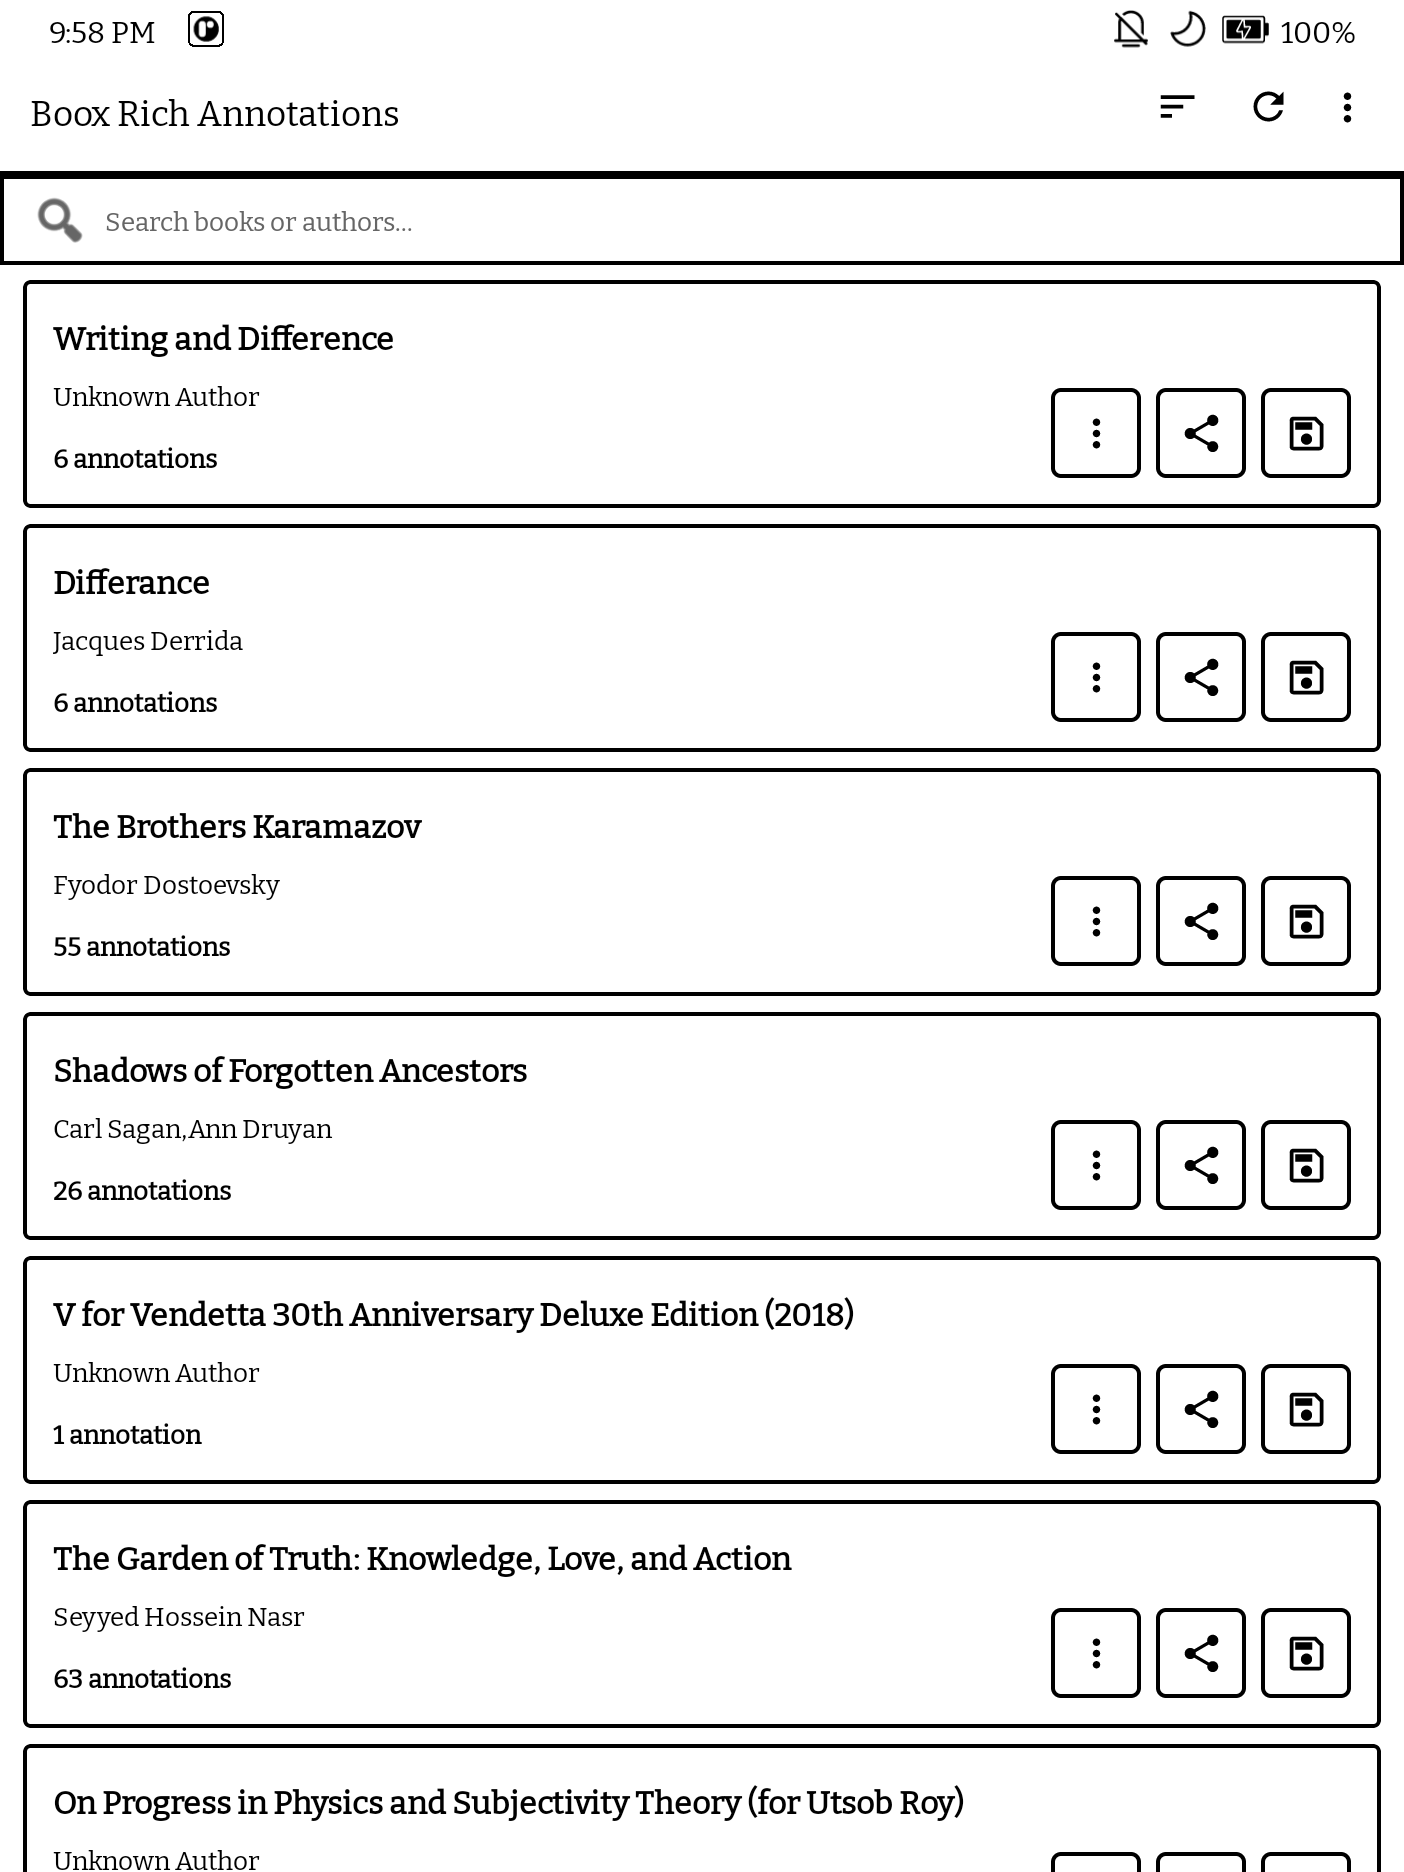
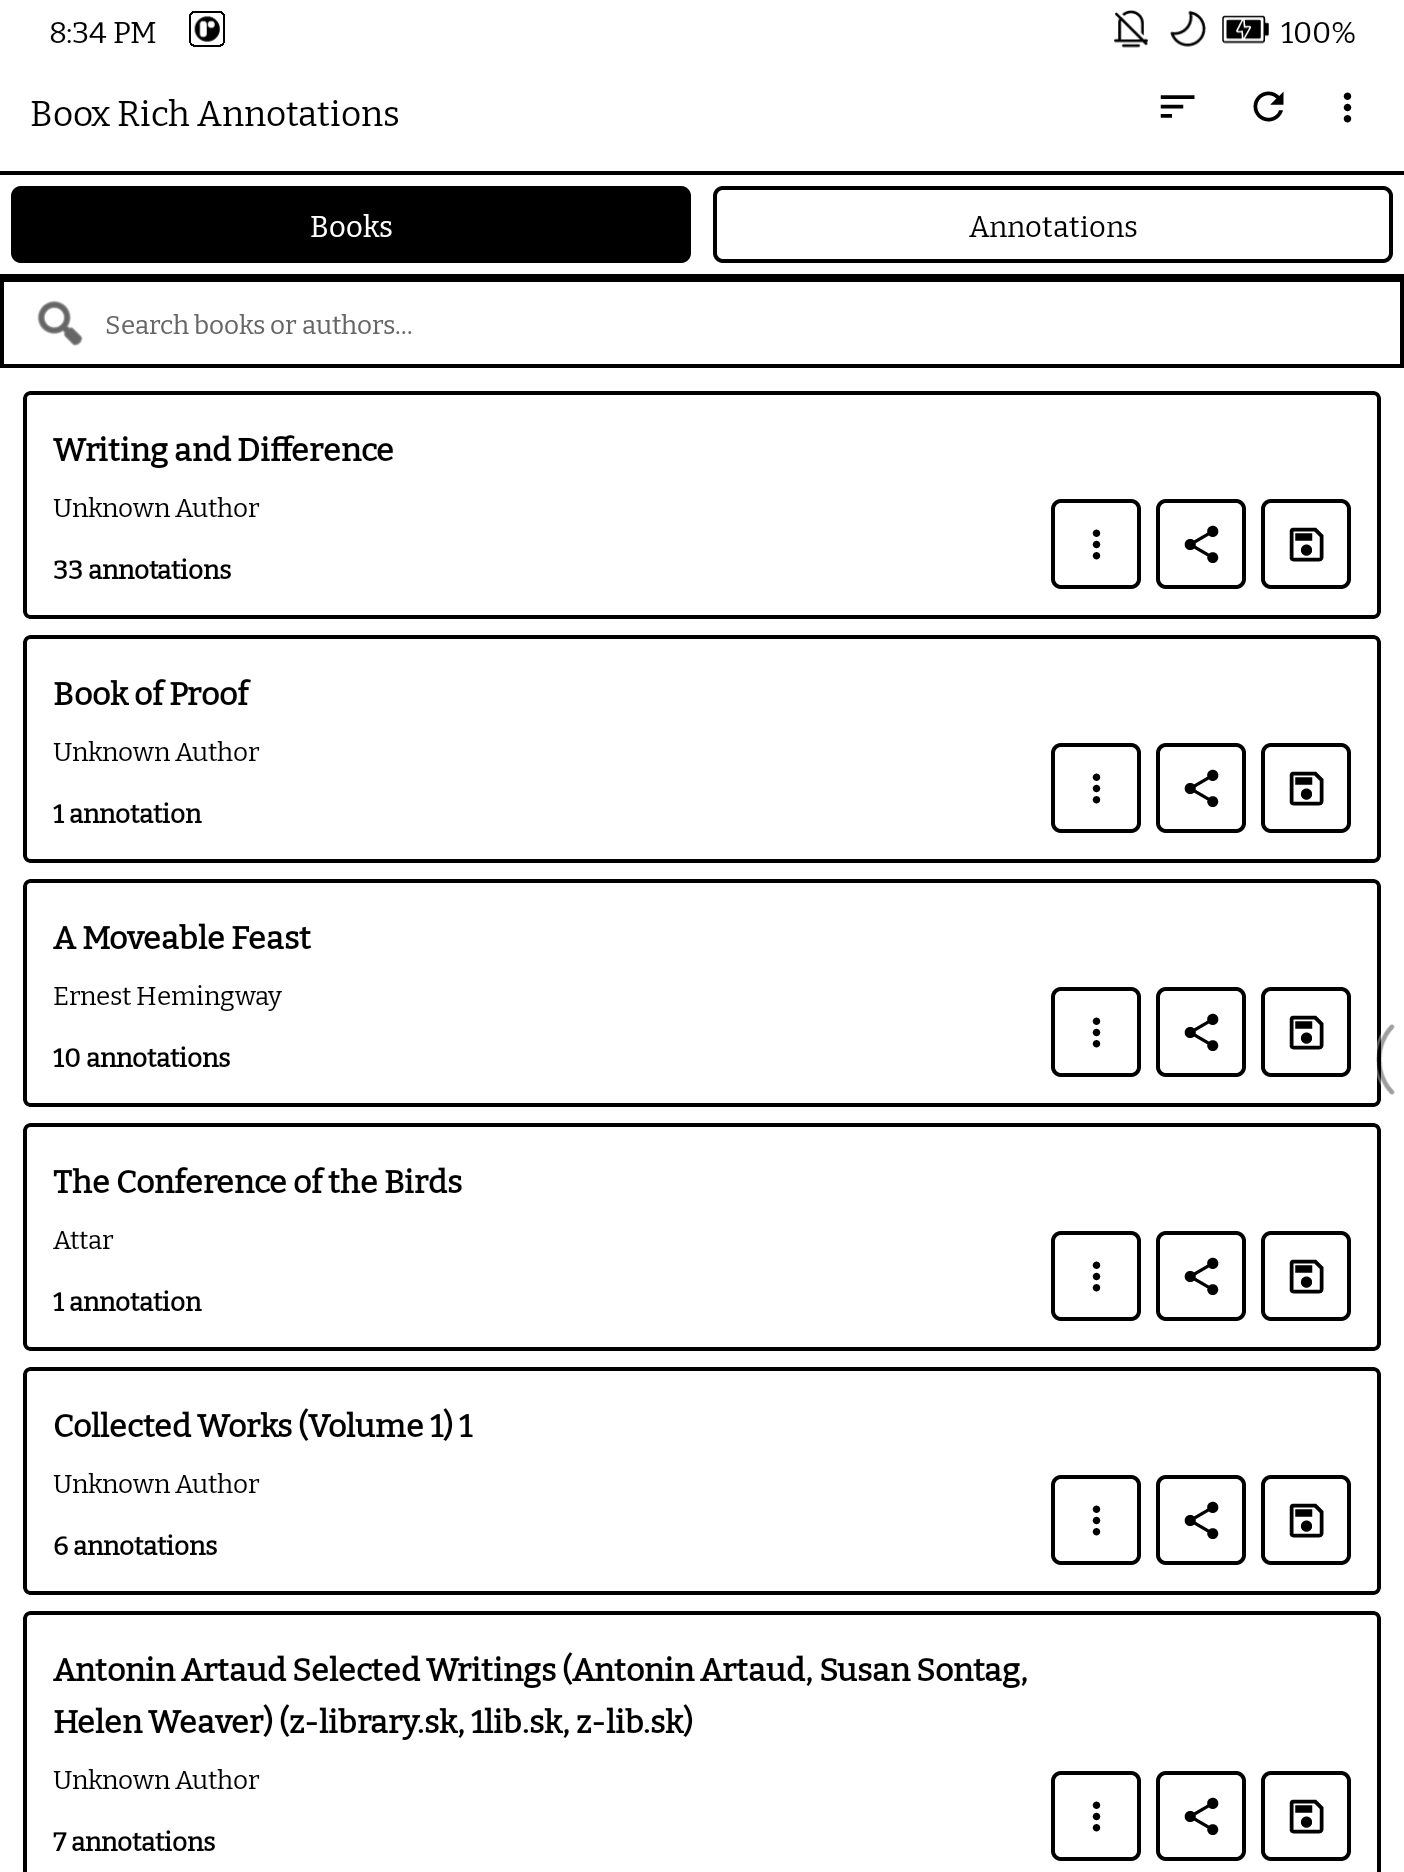
doc: update readme and screenshots

Changed region(s): [[0.0, 0.0929, 1.0, 1.0], [0.0306, 0.0, 0.0919, 0.031], [0.1225, 0.0, 0.1531, 0.031]]

diff --git a/README.md b/README.md
@@ -6,6 +6,8 @@ A native Android app for extracting and exporting rich annotations from Onyx Boo
 
 <p align="center">
   <img src="screenshots/main_page.png" width="400" alt="Main Page - Book List">
+  <img src="screenshots/annotations_page.png" width="400" alt="Annotations Tab - Grouped by Book">
+  <img src="screenshots/book_detail_page.png" width="400" alt="Book Detail - Annotation Cards">
   <img src="screenshots/prefs_page.png" width="400" alt="Preferrences">
   <img src="screenshots/template_editor.png" width="400" alt="Template Editor">
 </p>
@@ -14,8 +16,11 @@ A native Android app for extracting and exporting rich annotations from Onyx Boo
 
 - 📚 **Browse Your Library** - View all your ebooks (EPUB, MOBI, AZW/AZW3) in one place
 - 🔍 **Search** - Find books instantly by title or author
+- 🗂 **Books & Annotations Tabs** - Browse by book, or see every annotation from every book grouped under collapsible book headers in one scrollable list
+- 📖 **Book Detail View** - Tap into a book to see each annotation as its own card (style, page, chapter, timestamp, quote, note)
+- ✅ **Bulk Selection & Export** - Select individual annotations, a whole book at once, or everything across multiple books, then share/save just that selection
 - 🎨 **Rich Annotations** - Exports annotations with colors, styles, and notes
-- 📥 **Multiple Export Formats** - JSON, CSV, or customizable text (Markdown, etc.)
+- 📥 **Multiple Export Formats** - JSON, CSV, or customizable text (Markdown, etc.), including multi-book exports
 - ✏ **Template Editor** - Create custom export templates with Pebble templating engine
 - 🎨 **Syntax Highlighting** - Bold keywords, italic variables in template editor for better readability
 - 📁 **Custom Save Location** - Choose any folder on your device to save exported files
@@ -63,7 +68,9 @@ A native Android app for extracting and exporting rich annotations from Onyx Boo
 
 ### CSV
 Simple spreadsheet format with columns:
-- Page, Quote, Chapter, Style, Color, Note, Created At
+- Book, Author, Page, Quote, Chapter, Style, Color, Note, Created At, Book ID
+
+`Book ID` is a stable per-book identifier (not just the title), useful for joining/filtering rows across multiple exports in a spreadsheet or query tool.
 
 ### Text (Customizable)
 Export to Markdown or any text format using Pebble templates. The default template includes:
@@ -80,6 +87,9 @@ Export to Markdown or any text format using Pebble templates. The default templa
 **Available template functions:**
 - `date` filter: `{{ timestamp | date("yyyy-MM-dd HH:mm:ss") }}`
 - `percentage`: `{{ percentage(annotation.pageNumber, book.totalPages, 2) }}` - calculates percentage with precise decimal formatting
+
+### Multi-Book Export
+From the **Annotations** tab, select annotations across several books at once and export or share them together in any format (JSON, CSV, or Text).
 
 ## Installation
 
@@ -101,54 +111,6 @@ cd BooxRichAnnotation
 ```
 
 The APK will be available at: `app/build/outputs/apk/debug/app-debug.apk`
-
-## How It Works
-
-The app queries Onyx's internal content provider to access:
-- **Metadata** - Book information (title, author, format, etc.)
-- **Annotations** - Highlights, notes, and their metadata
-
-No file parsing or external storage access needed - everything is fetched directly from the Onyx system database.
-
-## Technical Details
-
-### Content Providers
-- Authority: `com.onyx.content.database.ContentProvider`
-- Tables: `Metadata`, `Annotation`
-- Requires Android 11+ package visibility declaration
-
-### Deduplication Logic
-When you edit an annotation (change color, add notes, etc.), Onyx creates a new entry. The app automatically:
-1. Groups annotations by their unique identifier (quote + location)
-2. Keeps only the most recent version (highest `updatedAt` timestamp)
-3. Ensures you see the current state of each annotation
-
-### E-ink Optimizations
-- All animations disabled
-- Pure white (#FFFFFF) background
-- Pure black (#000000) text and borders
-- 2dp bold outlines on all UI elements
-- Zero elevation/shadows
-
-## Project Structure
-
-```
-app/src/main/
-├── java/.../booxrichannotation/
-│   ├── MainActivity.kt              # Book list screen
-│   ├── BookDetailActivity.kt        # Annotation detail screen
-│   ├── PreferencesActivity.kt       # Settings screen
-│   ├── TemplateEditorActivity.kt    # Template editor
-│   ├── BookAdapter.kt               # RecyclerView adapter with export logic
-│   ├── OnyxContentProvider.kt       # Content provider helper
-│   ├── BookMetadata.kt              # Book data model
-│   └── Annotation.kt                # Annotation data model
-└── res/
-    ├── layout/                      # UI layouts
-    ├── menu/                        # Toolbar menus
-    ├── drawable/                    # Backgrounds, icons
-    └── values/                      # Themes, strings, colors
-```
 
 ## Permissions
 
